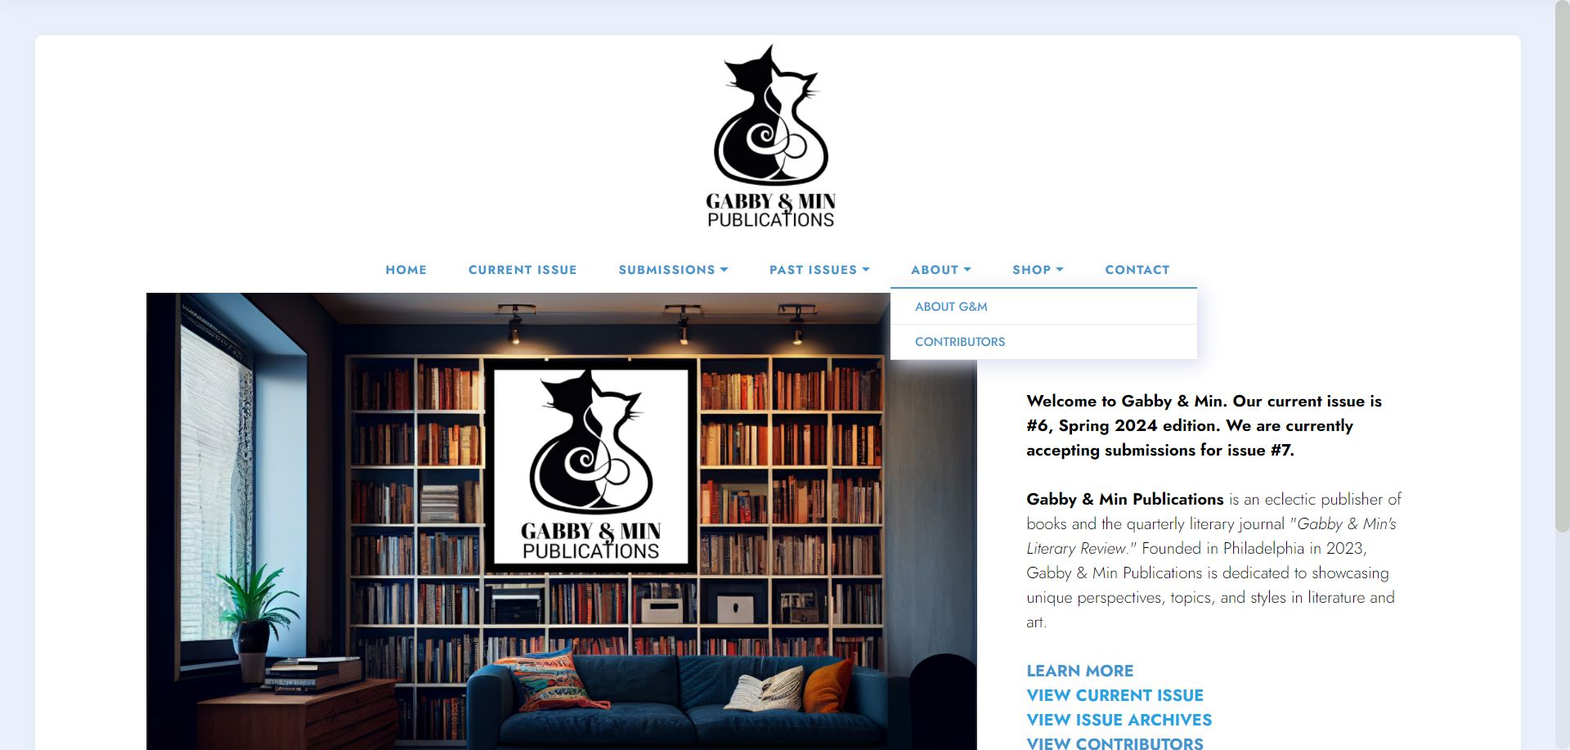
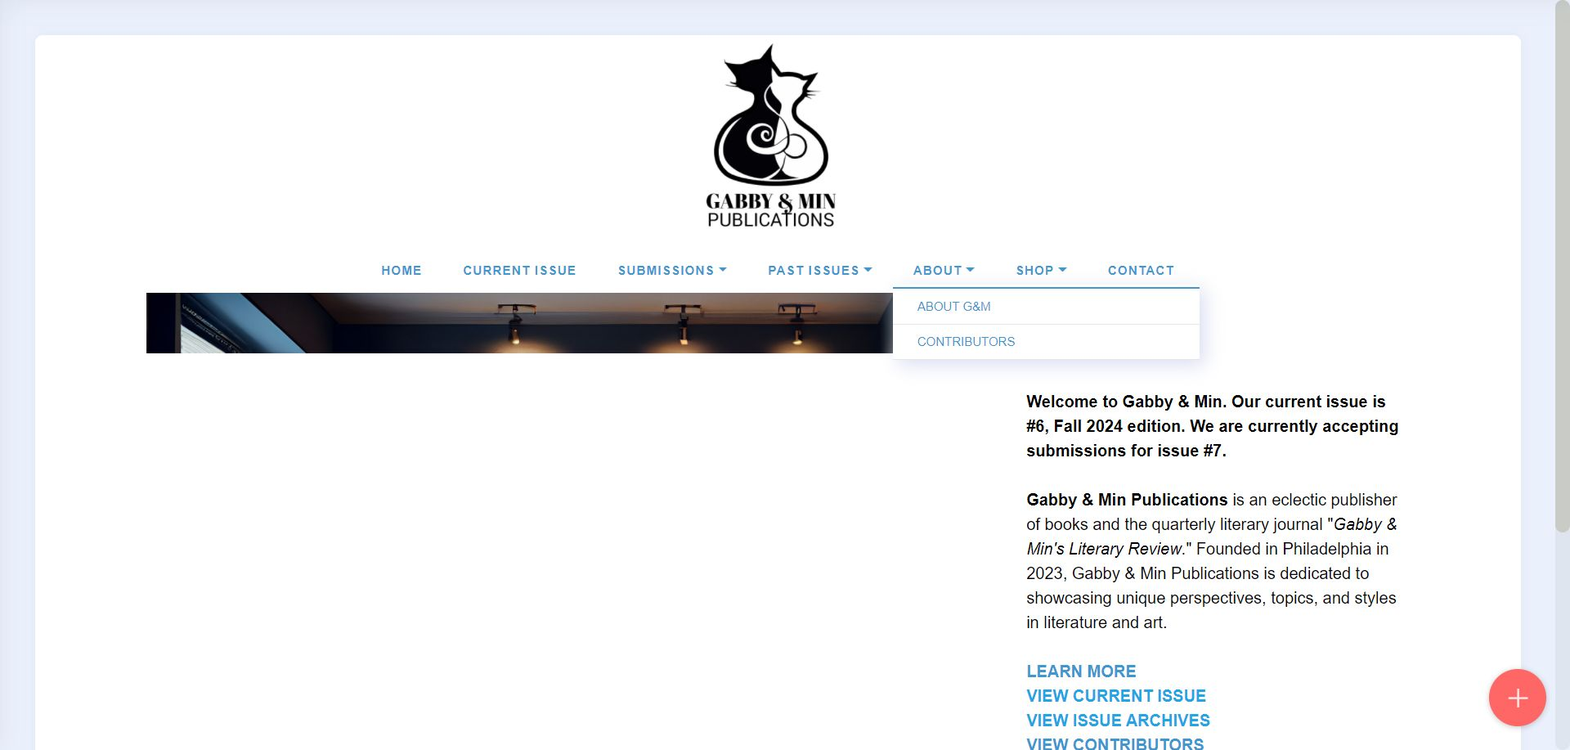
Add files via upload

diff --git a/faqs.html b/faqs.html
@@ -20,7 +20,7 @@
   <link rel="stylesheet" href="assets/theme/css/style.css">
   <link rel="preload" href="https://fonts.googleapis.com/css?family=Jost:100,200,300,400,500,600,700,800,900,100i,200i,300i,400i,500i,600i,700i,800i,900i&display=swap" as="style" onload="this.onload=null;this.rel='stylesheet'">
   <noscript><link rel="stylesheet" href="https://fonts.googleapis.com/css?family=Jost:100,200,300,400,500,600,700,800,900,100i,200i,300i,400i,500i,600i,700i,800i,900i&display=swap"></noscript>
-  <link rel="preload" as="style" href="assets/mobirise/css/mbr-additional.css?v=R2sDuQ"><link rel="stylesheet" href="assets/mobirise/css/mbr-additional.css?v=R2sDuQ" type="text/css">
+  <link rel="preload" as="style" href="assets/mobirise/css/mbr-additional.css?v=azFaYg"><link rel="stylesheet" href="assets/mobirise/css/mbr-additional.css?v=azFaYg" type="text/css">
 
   
   
@@ -89,11 +89,11 @@
                     <div id="bootstrap-toggle" class="toggle-panel accordionStyles tab-content">
                         <div class="card">
                             <div class="card-header" role="tab" id="headingOne">
-                                <a role="button" class="collapsed panel-title" data-toggle="collapse" data-bs-toggle="collapse" data-core="" href="#collapse1_85" aria-expanded="false" aria-controls="collapse1">
+                                <a role="button" class="collapsed panel-title" data-toggle="collapse" data-bs-toggle="collapse" data-core="" href="#collapse1_86" aria-expanded="false" aria-controls="collapse1">
                                     <h4 class="mbr-fonts-style display-4">I'M AN ARTIST, how can I get my ARTWORK/PHOTOGRAPHY FEATURED IN <em><strong>gABBY &amp; mIN's lITERARY rEVIEW</strong></em></h4>
                                 </a>
                             </div>
-                            <div id="collapse1_85" class="panel-collapse noScroll collapse" role="tabpanel" aria-labelledby="headingOne">
+                            <div id="collapse1_86" class="panel-collapse noScroll collapse" role="tabpanel" aria-labelledby="headingOne">
                                 <div class="panel-body">
                                     <p class="mbr-fonts-style mbr-text panel-text display-4">Go to the "<a href="https://gabbyandmin.com/submissions" class="text-primary"><strong>Current Submissions</strong></a>" and submit to either the <strong>INTERNATIONAL OPEN CALL FOR PHOTOGRAPHY</strong> or the&nbsp;<strong>INTERNATIONAL OPEN CALL FOR ILLUSTRATIONS &amp; ART</strong></p>
                                 </div>
@@ -101,12 +101,12 @@
                         </div>
                         <div class="card">
                             <div class="card-header" role="tab" id="headingTwo">
-                                <a role="button" class="collapsed panel-title" data-toggle="collapse" data-bs-toggle="collapse" data-core="" href="#collapse2_85" aria-expanded="false" aria-controls="collapse2">
+                                <a role="button" class="collapsed panel-title" data-toggle="collapse" data-bs-toggle="collapse" data-core="" href="#collapse2_86" aria-expanded="false" aria-controls="collapse2">
                                     <h4 class="mbr-fonts-style display-4">I'M AN ARTIST, HOW CAN I GET MY ARTWORK/PHOTOGRAPHY ON THE FRONT OR BACK COVER OF <strong><em>GABBY &amp; MIN's LITERARY REVIEW</em></strong></h4>
                                 </a>
 
                             </div>
-                            <div id="collapse2_85" class="panel-collapse noScroll collapse" role="tabpanel" aria-labelledby="headingTwo">
+                            <div id="collapse2_86" class="panel-collapse noScroll collapse" role="tabpanel" aria-labelledby="headingTwo">
                                 <div class="panel-body">
                                     <p class="mbr-fonts-style mbr-text panel-text display-4">We select the artworks or photographs that will appear on the front and back covers. We select the winners from&nbsp;those who <strong><a href="https://gabbyandmin.com/submissions" class="text-primary"><b>submit</b></a> </strong>to the <strong>INTERNATIONAL OPEN CALL FOR PHOTOGRAPHY</strong> or the <strong>INTERNATIONAL OPEN CALL FOR ILLUSTRATIONS &amp; ART</strong></p>
                                 </div>
@@ -114,11 +114,11 @@
                         </div>
                         <div class="card">
                             <div class="card-header" role="tab" id="headingThree">
-                                <a role="button" class="collapsed panel-title" data-toggle="collapse" data-bs-toggle="collapse" data-core="" href="#collapse3_85" aria-expanded="false" aria-controls="collapse3">
+                                <a role="button" class="collapsed panel-title" data-toggle="collapse" data-bs-toggle="collapse" data-core="" href="#collapse3_86" aria-expanded="false" aria-controls="collapse3">
                                     <h4 class="mbr-fonts-style display-4">I HAVE A STORE, WHO CAN I CONTACT TO SET UP CARRYING A BOOK THAT IS PUBLISHED BY <strong>GABBY &amp; MIN PUBLICATIONS</strong>?</h4>
                                 </a>
                             </div>
-                            <div id="collapse3_85" class="panel-collapse noScroll collapse" role="tabpanel" aria-labelledby="headingThree">
+                            <div id="collapse3_86" class="panel-collapse noScroll collapse" role="tabpanel" aria-labelledby="headingThree">
                                 <div class="panel-body">
                                     <p class="mbr-fonts-style mbr-text panel-text display-4">Please <strong><a href="https://gabbyandmin.com/contact" class="text-primary"><b>contact us</b></a> </strong>with "<strong>ATTN: Gabby &amp; Min - Distribution</strong>" in the <strong>Department </strong>field.</p>
                                 </div>
@@ -126,11 +126,11 @@
                         </div>
                         <div class="card">
                             <div class="card-header" role="tab" id="headingThree">
-                                <a role="button" class="collapsed panel-title" data-toggle="collapse" data-bs-toggle="collapse" data-core="" href="#collapse4_85" aria-expanded="false" aria-controls="collapse4">
+                                <a role="button" class="collapsed panel-title" data-toggle="collapse" data-bs-toggle="collapse" data-core="" href="#collapse4_86" aria-expanded="false" aria-controls="collapse4">
                                     <h4 class="mbr-fonts-style display-4">I'm an author and/or Poet and i'd like <strong>GABBY &amp; mIN pUBLICATIONS</strong> TO PUBLISH MY BOOK.</h4>
                                 </a>
                             </div>
-                            <div id="collapse4_85" class="panel-collapse noScroll collapse" role="tabpanel" aria-labelledby="headingThree">
+                            <div id="collapse4_86" class="panel-collapse noScroll collapse" role="tabpanel" aria-labelledby="headingThree">
                                 <div class="panel-body">
                                     <p class="mbr-fonts-style mbr-text panel-text display-4">We are not currently accepting any manuscripts for novels or poetry books. However you are encouraged to submit any unpublished works to <em>Gabby &amp; Min's Literary Review.</em></p>
                                 </div>

diff --git a/current-issue.html b/current-issue.html
@@ -20,7 +20,7 @@
   <link rel="stylesheet" href="assets/theme/css/style.css">
   <link rel="preload" href="https://fonts.googleapis.com/css?family=Jost:100,200,300,400,500,600,700,800,900,100i,200i,300i,400i,500i,600i,700i,800i,900i&display=swap" as="style" onload="this.onload=null;this.rel='stylesheet'">
   <noscript><link rel="stylesheet" href="https://fonts.googleapis.com/css?family=Jost:100,200,300,400,500,600,700,800,900,100i,200i,300i,400i,500i,600i,700i,800i,900i&display=swap"></noscript>
-  <link rel="preload" as="style" href="assets/mobirise/css/mbr-additional.css?v=dIfcX2"><link rel="stylesheet" href="assets/mobirise/css/mbr-additional.css?v=dIfcX2" type="text/css">
+  <link rel="preload" as="style" href="assets/mobirise/css/mbr-additional.css?v=vlHsUL"><link rel="stylesheet" href="assets/mobirise/css/mbr-additional.css?v=vlHsUL" type="text/css">
 
   
   
@@ -83,16 +83,16 @@
         <div class="row align-items-center">
             <div class="col-12 col-lg-5">
                 <div class="image-wrapper">
-                    <img src="assets/images/gmlr-6-2024-fall-issue-cover.png" alt="Gabby &amp; Min's Literary Review, Issue #6 Front Cover">
-                    <p class="mbr-description mbr-fonts-style pt-2 align-center display-4"><strong><em>Gabby &amp; Min's Literary Review</em>, Issue #6 Fall 2024</strong><br></p>
+                    <img src="assets/images/gmlr-7-2025-winter-issue.png" alt="Gabby &amp; Min's Literary Review, Issue #7 Front Cover">
+                    <p class="mbr-description mbr-fonts-style pt-2 align-center display-4"><strong><em>Gabby &amp; Min's Literary Review</em>, Issue #7 Winter 2025</strong><br></p>
                 </div>
             </div>
             <div class="col-12 col-lg">
                 <div class="text-wrapper">
                     <h3 class="mbr-section-title mbr-fonts-style mb-3 display-5">
-                        <strong><em>GABBY &amp; MIN'S LITERARY REVIEW</em></strong><br><strong>Issue #6, Fall 2024</strong></h3>
-                    <p class="mbr-text mbr-fonts-style display-7"><strong><em>Gabby &amp; Min's Literary Review</em></strong> is delighted to present its sixth issue for Fall 2024, embracing the season’s rich tapestry of change and introspection. This captivating edition features eleven stunning artworks that capture the warm, earthy tones and reflective spirit of autumn. Complementing these visual creations are five thought-provoking stories, each exploring themes of transition, nostalgia, and the complexity of relationships. The issue also showcases seven striking photographs, preserving moments that highlight the fleeting splendor of this time of year. To further elevate the collection, sixteen poignant poems and prose pieces delve into themes of loss, renewal, and inner strength. Every piece within this issue, whether visual or literary, embodies the distinctive perspective and talent of its creator. Issue #6 invites readers to immerse themselves in the poignant beauty and depth found within <em>Gabby &amp; Min's Literary Review</em>, celebrating the profound influence of art and storytelling in capturing the essence of autumn.<br>
-<br><strong>Featuring:</strong><br>Annette Young, Anna Correa, Angelina Carrera, David Avila, Dee Allen, Donald Patten, Dylan Hoover, Emma Wells, Erika Payne, Frances Fish, Hunter Prichard, Jenna Martinez, Jill E. T. Bemis, Joe Bisicchia, KJ Cartmell, Kenneth M. Kapp, Leili Najmabadi, Leonard S. Tao, LindaAnn LoSchiavo, Maggie Bowyer, Mario Loprete, Matthew McCain, O.P. Jha, Oreste Belletto, Rachel Coyne, Rachel Turney, Richard Eddie, Sam Hendrian, Sarah Tabbert, Serge Lecomte, Toshihisa Nikaido, Uzomah Ugwu, Zoe Huot-Link<br><br><a href="assets/files/GMLR-62024FallIssueInteractive.pdf" class="text-primary" target="_blank"><strong>DOWNLOAD THE INTERACTIVE PDF</strong></a><br></p>
+                        <strong><em>GABBY &amp; MIN'S LITERARY REVIEW</em></strong><br><strong>Issue #7, Winter 2025</strong></h3>
+                    <p class="mbr-text mbr-fonts-style display-7"><strong><em>Gabby &amp; Min’s Literary Review</em></strong> is proud to present its seventh issue, embracing the quiet depth and stark beauty of winter. This edition captures the season’s reflective stillness through six striking artworks, four captivating stories, six evocative photographs, and eight powerful poems—each offering a unique perspective on winter’s duality of solitude and warmth. Within these pages, you’ll find poetry that lingers like breath in cold air, fiction that delves into the frozen edges of memory and transformation, and visual works that preserve fleeting winter landscapes. Whether through the hush of snowfall, the ache of nostalgia, or the resilience found in nature’s endurance, this collection invites readers to experience winter not just as a season, but as a state of being. Issue #7 invites you to embrace the quiet wonder of winter—its hush, its heaviness, its moments of unexpected warmth. Let these stories, images, and verses be a companion through the stillness, a reminder that even in the coldest months, creativity thrives.<br>
+<br><strong>Featuring:</strong><br>Angela Camack, Chris Espenshade, Cyrus Carlson, Donald Patten, Douglas G. Campbell, Emmett Roden, Harrison Zeiberg, Kathryn Maiolino, Laurie King-Billman, Lawrence Bridges, Lior Maaya, Matthew McCain, Matthew McCain, Maureen Martinez, Michael Neuwirth, N.T. Chambers, Patrick Breheny, Rachel Turney, Robin Young, Saheb SK, Sanjeevani Sakshi, Serge Lecomte, Stasha Cole, Zac Yonko<br><br><a href="assets/files/GMLR-62024FallIssueInteractive.pdf" class="text-primary" target="_blank"><strong>DOWNLOAD THE INTERACTIVE PDF</strong></a><br></p>
                 </div>
             </div>
         </div>

diff --git a/archives.html b/archives.html
@@ -20,7 +20,7 @@
   <link rel="stylesheet" href="assets/theme/css/style.css">
   <link rel="preload" href="https://fonts.googleapis.com/css?family=Jost:100,200,300,400,500,600,700,800,900,100i,200i,300i,400i,500i,600i,700i,800i,900i&display=swap" as="style" onload="this.onload=null;this.rel='stylesheet'">
   <noscript><link rel="stylesheet" href="https://fonts.googleapis.com/css?family=Jost:100,200,300,400,500,600,700,800,900,100i,200i,300i,400i,500i,600i,700i,800i,900i&display=swap"></noscript>
-  <link rel="preload" as="style" href="assets/mobirise/css/mbr-additional.css?v=59vT7R"><link rel="stylesheet" href="assets/mobirise/css/mbr-additional.css?v=59vT7R" type="text/css">
+  <link rel="preload" as="style" href="assets/mobirise/css/mbr-additional.css?v=zLM4ZM"><link rel="stylesheet" href="assets/mobirise/css/mbr-additional.css?v=zLM4ZM" type="text/css">
 
   
   
@@ -71,6 +71,32 @@
                 </li></ul>
         </div>
     </nav>
+</section>
+
+<section data-bs-version="5.1" class="image1 cid-uBAsrrnMen" id="image1-7a">
+    
+
+    
+    
+
+    <div class="container">
+        <div class="row align-items-center">
+            <div class="col-12 col-lg-5">
+                <div class="image-wrapper">
+                    <img src="assets/images/gmlr-6-2024-fall-issue-cover.png" alt="Gabby &amp; Min's Literary Review, Issue #6 Front Cover">
+                    <p class="mbr-description mbr-fonts-style pt-2 align-center display-4"><strong><em>Gabby &amp; Min's Literary Review</em>, Issue #6 Fall 2024</strong><br></p>
+                </div>
+            </div>
+            <div class="col-12 col-lg">
+                <div class="text-wrapper">
+                    <h3 class="mbr-section-title mbr-fonts-style mb-3 display-5">
+                        <strong><em>GABBY &amp; MIN'S LITERARY REVIEW</em></strong><br><strong>Issue #6, Fall 2024</strong></h3>
+                    <p class="mbr-text mbr-fonts-style display-7"><strong><em>Gabby &amp; Min's Literary Review</em></strong> is delighted to present its sixth issue for Fall 2024, embracing the season’s rich tapestry of change and introspection. This captivating edition features eleven stunning artworks that capture the warm, earthy tones and reflective spirit of autumn. Complementing these visual creations are five thought-provoking stories, each exploring themes of transition, nostalgia, and the complexity of relationships. The issue also showcases seven striking photographs, preserving moments that highlight the fleeting splendor of this time of year. To further elevate the collection, sixteen poignant poems and prose pieces delve into themes of loss, renewal, and inner strength. Every piece within this issue, whether visual or literary, embodies the distinctive perspective and talent of its creator. Issue #6 invites readers to immerse themselves in the poignant beauty and depth found within <em>Gabby &amp; Min's Literary Review</em>, celebrating the profound influence of art and storytelling in capturing the essence of autumn.<br>
+<br><strong>Featuring:</strong><br>Annette Young, Anna Correa, Angelina Carrera, David Avila, Dee Allen, Donald Patten, Dylan Hoover, Emma Wells, Erika Payne, Frances Fish, Hunter Prichard, Jenna Martinez, Jill E. T. Bemis, Joe Bisicchia, KJ Cartmell, Kenneth M. Kapp, Leili Najmabadi, Leonard S. Tao, LindaAnn LoSchiavo, Maggie Bowyer, Mario Loprete, Matthew McCain, O.P. Jha, Oreste Belletto, Rachel Coyne, Rachel Turney, Richard Eddie, Sam Hendrian, Sarah Tabbert, Serge Lecomte, Toshihisa Nikaido, Uzomah Ugwu, Zoe Huot-Link<br><br><a href="assets/files/GMLR-62024FallIssueInteractive.pdf" class="text-primary" target="_blank"><strong>DOWNLOAD THE INTERACTIVE PDF</strong></a><br></p>
+                </div>
+            </div>
+        </div>
+    </div>
 </section>
 
 <section data-bs-version="5.1" class="image1 cid-usUhzH88GT" id="image1-79">

diff --git a/index.html b/index.html
@@ -20,7 +20,7 @@
   <link rel="stylesheet" href="assets/theme/css/style.css">
   <link rel="preload" href="https://fonts.googleapis.com/css?family=Jost:100,200,300,400,500,600,700,800,900,100i,200i,300i,400i,500i,600i,700i,800i,900i&display=swap" as="style" onload="this.onload=null;this.rel='stylesheet'">
   <noscript><link rel="stylesheet" href="https://fonts.googleapis.com/css?family=Jost:100,200,300,400,500,600,700,800,900,100i,200i,300i,400i,500i,600i,700i,800i,900i&display=swap"></noscript>
-  <link rel="preload" as="style" href="assets/mobirise/css/mbr-additional.css?v=coMS4C"><link rel="stylesheet" href="assets/mobirise/css/mbr-additional.css?v=coMS4C" type="text/css">
+  <link rel="preload" as="style" href="assets/mobirise/css/mbr-additional.css?v=VfOQor"><link rel="stylesheet" href="assets/mobirise/css/mbr-additional.css?v=VfOQor" type="text/css">
 
   
   
@@ -85,7 +85,7 @@
 			</div>
 			<div class="col-lg-4 wrap-block">
 				
-				<h3 class="mbr-text mbr-fonts-style mbr-light display-7"><strong>Welcome to Gabby &amp; Min. Our current issue is #6, Fall 2024 edition. We are currently accepting submissions for issue #7.</strong><br><br><strong>Gabby &amp; Min Publications</strong> is an eclectic publisher of books and the quarterly literary journal "<em>Gabby &amp; Min's Literary Review</em>." Founded in Philadelphia in 2023, Gabby &amp; Min Publications is dedicated to showcasing unique perspectives, topics, and styles in literature and art.<br><br><a href="https://gabbyandmin.com/about" class="text-primary"><strong>LEARN MORE</strong></a><br><strong><b><a href="https://gabbyandmin.com/current-issue" class="text-info text-primary"><b>VIEW CURRENT ISSUE</b></a><br></b><a href="https://gabbyandmin.com/archives" class="text-info text-primary"><b>VIEW ISSUE ARCHIVES</b></a></strong><br><a href="https://gabbyandmin.com/contributors" class="text-primary"><strong>VIEW CONTRIBUTORS</strong></a></h3>
+				<h3 class="mbr-text mbr-fonts-style mbr-light display-7"><strong>Welcome to Gabby &amp; Min. Our current issue is #7, Fall 2024 edition. We are currently accepting submissions for issue #8.</strong><br><br><strong>Gabby &amp; Min Publications</strong> is an eclectic publisher of books and the quarterly literary journal "<em>Gabby &amp; Min's Literary Review</em>." Founded in Philadelphia in 2023, Gabby &amp; Min Publications is dedicated to showcasing unique perspectives, topics, and styles in literature and art.<br><br><a href="https://gabbyandmin.com/about" class="text-primary"><strong>LEARN MORE</strong></a><br><strong><b><a href="https://gabbyandmin.com/current-issue" class="text-info text-primary"><b>VIEW CURRENT ISSUE</b></a><br></b><a href="https://gabbyandmin.com/archives" class="text-info text-primary"><b>VIEW ISSUE ARCHIVES</b></a></strong><br><a href="https://gabbyandmin.com/contributors" class="text-primary"><strong>VIEW CONTRIBUTORS</strong></a></h3>
 				
 				
 			</div>

diff --git a/contact.html b/contact.html
@@ -20,7 +20,7 @@
   <link rel="stylesheet" href="assets/theme/css/style.css">
   <link rel="preload" href="https://fonts.googleapis.com/css?family=Jost:100,200,300,400,500,600,700,800,900,100i,200i,300i,400i,500i,600i,700i,800i,900i&display=swap" as="style" onload="this.onload=null;this.rel='stylesheet'">
   <noscript><link rel="stylesheet" href="https://fonts.googleapis.com/css?family=Jost:100,200,300,400,500,600,700,800,900,100i,200i,300i,400i,500i,600i,700i,800i,900i&display=swap"></noscript>
-  <link rel="preload" as="style" href="assets/mobirise/css/mbr-additional.css?v=ofWtYZ"><link rel="stylesheet" href="assets/mobirise/css/mbr-additional.css?v=ofWtYZ" type="text/css">
+  <link rel="preload" as="style" href="assets/mobirise/css/mbr-additional.css?v=lh4PEg"><link rel="stylesheet" href="assets/mobirise/css/mbr-additional.css?v=lh4PEg" type="text/css">
 
   
   
@@ -130,7 +130,7 @@
                     <div class="form-wrap">
                         <div class="mbr-form" data-form-type="formoid">
 <!--Formbuilder Form-->
-<form action="https://mobirise.eu/" method="POST" class="mbr-form form-with-styler mx-auto" data-form-title="Contact Delio Enterprises"><input type="hidden" name="email" data-form-email="true" value="SwxNDcjYUi77vYb0ZucEXnpRvebaCiomgiliRvB9trXmsVwgrGcdPUMhhxpLwNOvwOtqZWvBhgekZxfHSlCixSGRexNgga2937cbzLdWJMjX/LfN7eeCSvU1r0lp1cho.NNeNW4SCHZ5p0rxNQ7M3IcSUolyWCZ2rNOLNpgm2kTl33cf+uMm7rSc159tDQ/2JO6BkbhdUM2Hz2A2gsscblhXcyie9AuVXA5MVhi2q0QpCppmecaoogAFwQd9P442L">
+<form action="https://mobirise.eu/" method="POST" class="mbr-form form-with-styler mx-auto" data-form-title="Contact Delio Enterprises"><input type="hidden" name="email" data-form-email="true" value="jDstrb29XjKT5uPij0Cj6EovISXRoBccKZl0AhkZIt9fsnA8Af0ih+q5x6xS2VRe+uSY8ut4Ss8YG44q8ph0Ef6XBT2f7B1HrwOEOqrPj+XGqs+Z9VucxPoaGW2/r9IL.judCnVqA+qxxURoWlagMghJcPwZD/YtgpGI+NQhLBq/uyz9hUu2jrDvPKsg4AGA0JWrFSJVs4R2XpxseHA4qTxjj8JJTs4jEmfexdbEGgpMnevp3girj2AEgwPt/yLTt">
 <div class="row">
 <div hidden="hidden" data-form-alert="" class="alert alert-success col-12">Thank you for contacting Gabby &amp;amp;amp;amp; Min at Delio Enterprises. Your inquiry will be processed and we will contact you as soon as possible.</div>
 <div hidden="hidden" data-form-alert-danger="" class="alert alert-danger col-12"> Failed to send, please check back later. </div>

diff --git a/bookshelf.html b/bookshelf.html
@@ -20,7 +20,7 @@
   <link rel="stylesheet" href="assets/theme/css/style.css">
   <link rel="preload" href="https://fonts.googleapis.com/css?family=Jost:100,200,300,400,500,600,700,800,900,100i,200i,300i,400i,500i,600i,700i,800i,900i&display=swap" as="style" onload="this.onload=null;this.rel='stylesheet'">
   <noscript><link rel="stylesheet" href="https://fonts.googleapis.com/css?family=Jost:100,200,300,400,500,600,700,800,900,100i,200i,300i,400i,500i,600i,700i,800i,900i&display=swap"></noscript>
-  <link rel="preload" as="style" href="assets/mobirise/css/mbr-additional.css?v=Hc8HgG"><link rel="stylesheet" href="assets/mobirise/css/mbr-additional.css?v=Hc8HgG" type="text/css">
+  <link rel="preload" as="style" href="assets/mobirise/css/mbr-additional.css?v=FC3fZ2"><link rel="stylesheet" href="assets/mobirise/css/mbr-additional.css?v=FC3fZ2" type="text/css">
 
   
   

diff --git a/guidelines.html b/guidelines.html
@@ -20,7 +20,7 @@
   <link rel="stylesheet" href="assets/theme/css/style.css">
   <link rel="preload" href="https://fonts.googleapis.com/css?family=Jost:100,200,300,400,500,600,700,800,900,100i,200i,300i,400i,500i,600i,700i,800i,900i&display=swap" as="style" onload="this.onload=null;this.rel='stylesheet'">
   <noscript><link rel="stylesheet" href="https://fonts.googleapis.com/css?family=Jost:100,200,300,400,500,600,700,800,900,100i,200i,300i,400i,500i,600i,700i,800i,900i&display=swap"></noscript>
-  <link rel="preload" as="style" href="assets/mobirise/css/mbr-additional.css?v=TkN2xO"><link rel="stylesheet" href="assets/mobirise/css/mbr-additional.css?v=TkN2xO" type="text/css">
+  <link rel="preload" as="style" href="assets/mobirise/css/mbr-additional.css?v=BoG5hq"><link rel="stylesheet" href="assets/mobirise/css/mbr-additional.css?v=BoG5hq" type="text/css">
 
   
   

diff --git a/privacy-policy.html b/privacy-policy.html
@@ -20,7 +20,7 @@
   <link rel="stylesheet" href="assets/theme/css/style.css">
   <link rel="preload" href="https://fonts.googleapis.com/css?family=Jost:100,200,300,400,500,600,700,800,900,100i,200i,300i,400i,500i,600i,700i,800i,900i&display=swap" as="style" onload="this.onload=null;this.rel='stylesheet'">
   <noscript><link rel="stylesheet" href="https://fonts.googleapis.com/css?family=Jost:100,200,300,400,500,600,700,800,900,100i,200i,300i,400i,500i,600i,700i,800i,900i&display=swap"></noscript>
-  <link rel="preload" as="style" href="assets/mobirise/css/mbr-additional.css?v=My0j7E"><link rel="stylesheet" href="assets/mobirise/css/mbr-additional.css?v=My0j7E" type="text/css">
+  <link rel="preload" as="style" href="assets/mobirise/css/mbr-additional.css?v=ZUmx7J"><link rel="stylesheet" href="assets/mobirise/css/mbr-additional.css?v=ZUmx7J" type="text/css">
 
   
   

diff --git a/shop.html b/shop.html
@@ -20,7 +20,7 @@
   <link rel="stylesheet" href="assets/theme/css/style.css">
   <link rel="preload" href="https://fonts.googleapis.com/css?family=Jost:100,200,300,400,500,600,700,800,900,100i,200i,300i,400i,500i,600i,700i,800i,900i&display=swap" as="style" onload="this.onload=null;this.rel='stylesheet'">
   <noscript><link rel="stylesheet" href="https://fonts.googleapis.com/css?family=Jost:100,200,300,400,500,600,700,800,900,100i,200i,300i,400i,500i,600i,700i,800i,900i&display=swap"></noscript>
-  <link rel="preload" as="style" href="assets/mobirise/css/mbr-additional.css?v=tSOZnZ"><link rel="stylesheet" href="assets/mobirise/css/mbr-additional.css?v=tSOZnZ" type="text/css">
+  <link rel="preload" as="style" href="assets/mobirise/css/mbr-additional.css?v=klk9QR"><link rel="stylesheet" href="assets/mobirise/css/mbr-additional.css?v=klk9QR" type="text/css">
 
   
   

diff --git a/staff.html b/staff.html
@@ -20,7 +20,7 @@
   <link rel="stylesheet" href="assets/theme/css/style.css">
   <link rel="preload" href="https://fonts.googleapis.com/css?family=Jost:100,200,300,400,500,600,700,800,900,100i,200i,300i,400i,500i,600i,700i,800i,900i&display=swap" as="style" onload="this.onload=null;this.rel='stylesheet'">
   <noscript><link rel="stylesheet" href="https://fonts.googleapis.com/css?family=Jost:100,200,300,400,500,600,700,800,900,100i,200i,300i,400i,500i,600i,700i,800i,900i&display=swap"></noscript>
-  <link rel="preload" as="style" href="assets/mobirise/css/mbr-additional.css?v=PwuuU2"><link rel="stylesheet" href="assets/mobirise/css/mbr-additional.css?v=PwuuU2" type="text/css">
+  <link rel="preload" as="style" href="assets/mobirise/css/mbr-additional.css?v=3GjJtl"><link rel="stylesheet" href="assets/mobirise/css/mbr-additional.css?v=3GjJtl" type="text/css">
 
   
   

diff --git a/submissions.html b/submissions.html
@@ -20,7 +20,7 @@
   <link rel="stylesheet" href="assets/theme/css/style.css">
   <link rel="preload" href="https://fonts.googleapis.com/css?family=Jost:100,200,300,400,500,600,700,800,900,100i,200i,300i,400i,500i,600i,700i,800i,900i&display=swap" as="style" onload="this.onload=null;this.rel='stylesheet'">
   <noscript><link rel="stylesheet" href="https://fonts.googleapis.com/css?family=Jost:100,200,300,400,500,600,700,800,900,100i,200i,300i,400i,500i,600i,700i,800i,900i&display=swap"></noscript>
-  <link rel="preload" as="style" href="assets/mobirise/css/mbr-additional.css?v=jsaT30"><link rel="stylesheet" href="assets/mobirise/css/mbr-additional.css?v=jsaT30" type="text/css">
+  <link rel="preload" as="style" href="assets/mobirise/css/mbr-additional.css?v=SrWMJK"><link rel="stylesheet" href="assets/mobirise/css/mbr-additional.css?v=SrWMJK" type="text/css">
 
   
   

diff --git a/terms.html b/terms.html
@@ -20,7 +20,7 @@
   <link rel="stylesheet" href="assets/theme/css/style.css">
   <link rel="preload" href="https://fonts.googleapis.com/css?family=Jost:100,200,300,400,500,600,700,800,900,100i,200i,300i,400i,500i,600i,700i,800i,900i&display=swap" as="style" onload="this.onload=null;this.rel='stylesheet'">
   <noscript><link rel="stylesheet" href="https://fonts.googleapis.com/css?family=Jost:100,200,300,400,500,600,700,800,900,100i,200i,300i,400i,500i,600i,700i,800i,900i&display=swap"></noscript>
-  <link rel="preload" as="style" href="assets/mobirise/css/mbr-additional.css?v=wjL3lQ"><link rel="stylesheet" href="assets/mobirise/css/mbr-additional.css?v=wjL3lQ" type="text/css">
+  <link rel="preload" as="style" href="assets/mobirise/css/mbr-additional.css?v=5D9UQX"><link rel="stylesheet" href="assets/mobirise/css/mbr-additional.css?v=5D9UQX" type="text/css">
 
   
   
